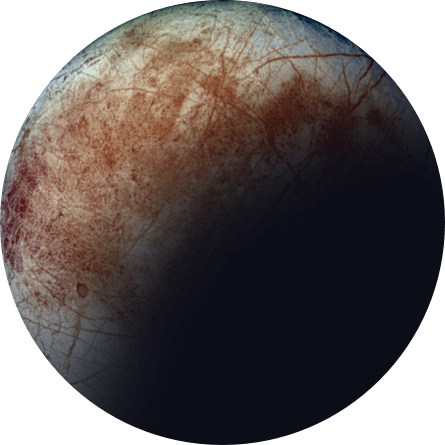
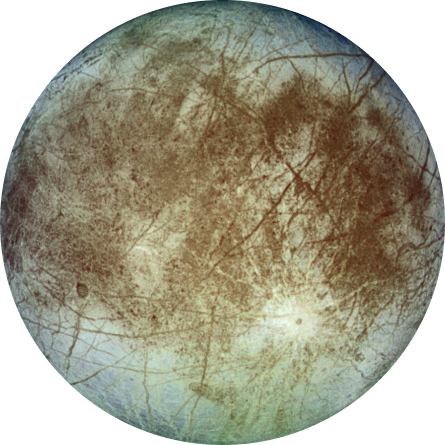
load1

diff --git a/src/views/DestinationView.vue b/src/views/DestinationView.vue
@@ -1,13 +1,18 @@
 <script setup>
 import { ref, computed } from "vue"
 
-const state = ref(1)
+const state = ref(0)
+
+setTimeout(() =>
+{
+    state.value = 1
+}, 10);
 
 const borderWidth = computed(() =>
 {
     switch (state.value)
     {
-        case 1: {
+        default: {
             return 2.85
         }
         case 2: {
@@ -16,7 +21,7 @@ const borderWidth = computed(() =>
         case 3: {
             return 4.05
         }
-        default: {
+        case 4: {
             return 3
         }
     }
@@ -25,7 +30,7 @@ const borderLeft = computed(() =>
 {
     switch (state.value)
     {
-        case 1: {
+        default: {
             return 0
         }
         case 2: {
@@ -34,7 +39,7 @@ const borderLeft = computed(() =>
         case 3: {
             return 10
         }
-        default: {
+        case 4: {
             return 16.28
         }
     }
@@ -69,7 +74,7 @@ const planet = computed(() =>
 {
     switch (state.value)
     {
-        case 1: {
+        default: {
             return moon
         }
         case 2: {
@@ -78,7 +83,7 @@ const planet = computed(() =>
         case 3: {
             return europa
         }
-        default: {
+        case 4: {
             return titan
         }
     }
@@ -93,10 +98,36 @@ const planet = computed(() =>
                 <span class="text-white font-bold opacity-[0.25] mr-4">01</span>
                 PICK YOUR DESTINATION
             </h5>
-            <img v-if="state == 1" class="mt-[6.063rem] ml-[3.375rem]" src="../assets/Moon.png" alt="Moon">
-            <img v-if="state == 2" class="mt-[6.063rem] ml-[3.375rem]" src="../assets/Mars.png" alt="Mars">
-            <img v-if="state == 3" class="mt-[6.063rem] ml-[3.375rem]" src="../assets/Europa.png" alt="Europa">
-            <img v-if="state == 4" class="mt-[6.063rem] ml-[3.375rem]" src="../assets/Titan.png" alt="Titan">
+            <div class="relative mt-[6.063rem] ml-[3.375rem] w-[27.813rem] h-[27.813rem]">
+                <div class="absolute top-0 left-0 transition-all duration-500 overflow-hidden rounded-full"
+                    :class="(state == 1) ? 'translate-x-0' : '-translate-x-[50rem]'">
+                    <img class="rotating" src="../assets/Moon.png" alt="Moon">
+                    <div
+                        class="absolute top-[2rem] left-[0.5rem] w-[60rem] h-[60rem] blur-[4rem] rounded-full bg-space-black">
+                    </div>
+                </div>
+                <div class="absolute top-0 left-0 transition-all duration-500 overflow-hidden rounded-full"
+                    :class="(state == 2) ? 'translate-x-0' : '-translate-x-[50rem]'">
+                    <img class="rotating" src="../assets/Mars.png" alt="Mars">
+                    <div
+                        class="absolute top-[2rem] left-[0.5rem] w-[60rem] h-[60rem] blur-[4rem] rounded-full bg-space-black">
+                    </div>
+                </div>
+                <div class="absolute top-0 left-0 transition-all duration-500 overflow-hidden rounded-full"
+                    :class="(state == 3) ? 'translate-x-0' : '-translate-x-[50rem]'">
+                    <img class="rotating" src="../assets/Europa.png" alt="Europa">
+                    <div
+                        class="absolute top-[2rem] left-[0.5rem] w-[60rem] h-[60rem] blur-[4rem] rounded-full bg-space-black">
+                    </div>
+                </div>
+                <div class="absolute top-0 left-0 transition-all duration-500 overflow-hidden rounded-full"
+                    :class="(state == 4) ? 'translate-x-0' : '-translate-x-[50rem]'">
+                    <img class="rotating" src="../assets/Titan.png" alt="Titan">
+                    <div
+                        class="absolute top-[2rem] left-[0.5rem] w-[60rem] h-[60rem] blur-[4rem] rounded-full bg-space-black">
+                    </div>
+                </div>
+            </div>
         </div>
         <div>
             <ul class="flex gap-[2.25rem] text-lg font-normal text-space-blue leading-[1.2rem] font-Condensed h-[2.125rem] mt-[6.125rem] relative"
@@ -141,3 +172,21 @@ const planet = computed(() =>
         </div>
     </div>
 </template>
+
+<style>
+.rotating {
+    animation: spin 60s linear infinite;
+}
+
+
+
+@keyframes spin {
+    from {
+        transform: rotate(0deg);
+    }
+
+    to {
+        transform: rotate(360deg);
+    }
+}
+</style>

diff --git a/src/views/CrewView.vue b/src/views/CrewView.vue
@@ -1,7 +1,12 @@
 <script setup>
 import { ref, computed } from "vue"
 
-const state = ref(1)
+const state = ref(0)
+
+setTimeout(() =>
+{
+    state.value = 1
+}, 10);
 
 const commander = {
     title: "COMMANDER ",
@@ -29,7 +34,7 @@ const planet = computed(() =>
 {
     switch (state.value)
     {
-        case 1: {
+        default: {
             return commander
         }
         case 2: {
@@ -38,7 +43,7 @@ const planet = computed(() =>
         case 3: {
             return pilot
         }
-        default: {
+        case 4: {
             return engineer
         }
     }
@@ -70,11 +75,21 @@ const planet = computed(() =>
                     :class="(state == 4) ? '' : 'opacity-[0.17] hover:opacity-50'" @click="state = 4"></li>
             </ul>
         </div>
-        <div class="flex-grow flex justify-center items-end">
-            <img v-if="state == 1" src="../assets/Commander.png" alt="Commander">
-            <img v-if="state == 2" src="../assets/Specialist.png" alt="Commander">
-            <img v-if="state == 3" src="../assets/Pilot.png" alt="Commander">
-            <img v-if="state == 4" src="../assets/Engineer.png" alt="Commander">
+        <div class="flex-grow flex justify-center items-end overflow-hidden">
+            <div class="relative w-[38.5rem] h-full">
+                <img class="absolute bottom-0 left-0 transition-all duration-500"
+                    :class="(state == 1) ? 'translate-x-0' : 'translate-x-[50rem]'" src="../assets/Commander.png"
+                    alt="Commander">
+                <img class="absolute bottom-0 left-0 transition-all duration-500"
+                    :class="(state == 2) ? 'translate-x-0' : 'translate-x-[50rem]'" src="../assets/Specialist.png"
+                    alt="Commander">
+                <img class="absolute bottom-0 left-0 transition-all duration-500"
+                    :class="(state == 3) ? 'translate-x-0' : 'translate-x-[50rem]'" src="../assets/Pilot.png"
+                    alt="Commander">
+                <img class="absolute bottom-0 left-0 transition-all duration-500"
+                    :class="(state == 4) ? 'translate-x-0' : 'translate-x-[50rem]'" src="../assets/Engineer.png"
+                    alt="Commander">
+            </div>
         </div>
     </div>
 </template>

diff --git a/src/views/TechnologyView.vue b/src/views/TechnologyView.vue
@@ -1,7 +1,12 @@
 <script setup>
 import { ref, computed } from "vue"
 
-const state = ref(1)
+const state = ref(0)
+
+setTimeout(() =>
+{
+    state.value = 1
+}, 10);
 
 const vehicle = {
     title: "LAUNCH VEHICLE",
@@ -21,13 +26,13 @@ const technology = computed(() =>
 {
     switch (state.value)
     {
-        case 1: {
+        default: {
             return vehicle
         }
         case 2: {
             return port
         }
-        default: {
+        case 3: {
             return capsule
         }
     }
@@ -71,10 +76,15 @@ const technology = computed(() =>
                 </div>
             </div>
         </div>
-        <div class="grow flex items-center justify-center">
-            <img v-if="state == 1" class="rounded-xl" src="../assets/Vehicle.jpg" alt="">
-            <img v-else-if="state == 2" class="rounded-xl" src="../assets/Port.jpg" alt="">
-            <img v-else class="rounded-xl" src="../assets/Capsule.jpg" alt="">
+        <div class="grow flex items-center justify-center overflow-hidden">
+            <div class="relative w-[32.188rem] h-[32.938rem]">
+                <img class="rounded-xl absolute top-0 left-0 transition-all duration-500"
+                    :class="(state == 1) ? 'translate-x-0' : 'translate-x-[50rem]'" src="../assets/Vehicle.jpg" alt="">
+                <img class="rounded-xl absolute top-0 left-0 transition-all duration-500"
+                    :class="(state == 2) ? 'translate-x-0' : 'translate-x-[50rem]'" src="../assets/Port.jpg" alt="">
+                <img class="rounded-xl absolute top-0 left-0 transition-all duration-500"
+                    :class="(state == 3) ? 'translate-x-0' : 'translate-x-[50rem]'" src="../assets/Capsule.jpg" alt="">
+            </div>
         </div>
     </div>
 </template>

diff --git a/src/App.vue b/src/App.vue
@@ -2,6 +2,13 @@
 import { useRouter, useRoute } from 'vue-router'
 import { ref, computed } from 'vue'
 
+const loaded = ref(false)
+
+window.addEventListener('load', () =>
+{
+  loaded.value = true
+})
+
 const router = useRouter()
 router.push('/')
 
@@ -114,6 +121,7 @@ function me()
     </nav>
     <router-view @explore="me" />
   </div>
+  <div class="h-[100vh] w-full absolute top-0 left-0 bg-space-black z-30" :class="(loaded) ? 'hidden' : ''"></div>
 </template>
 
 <style>
